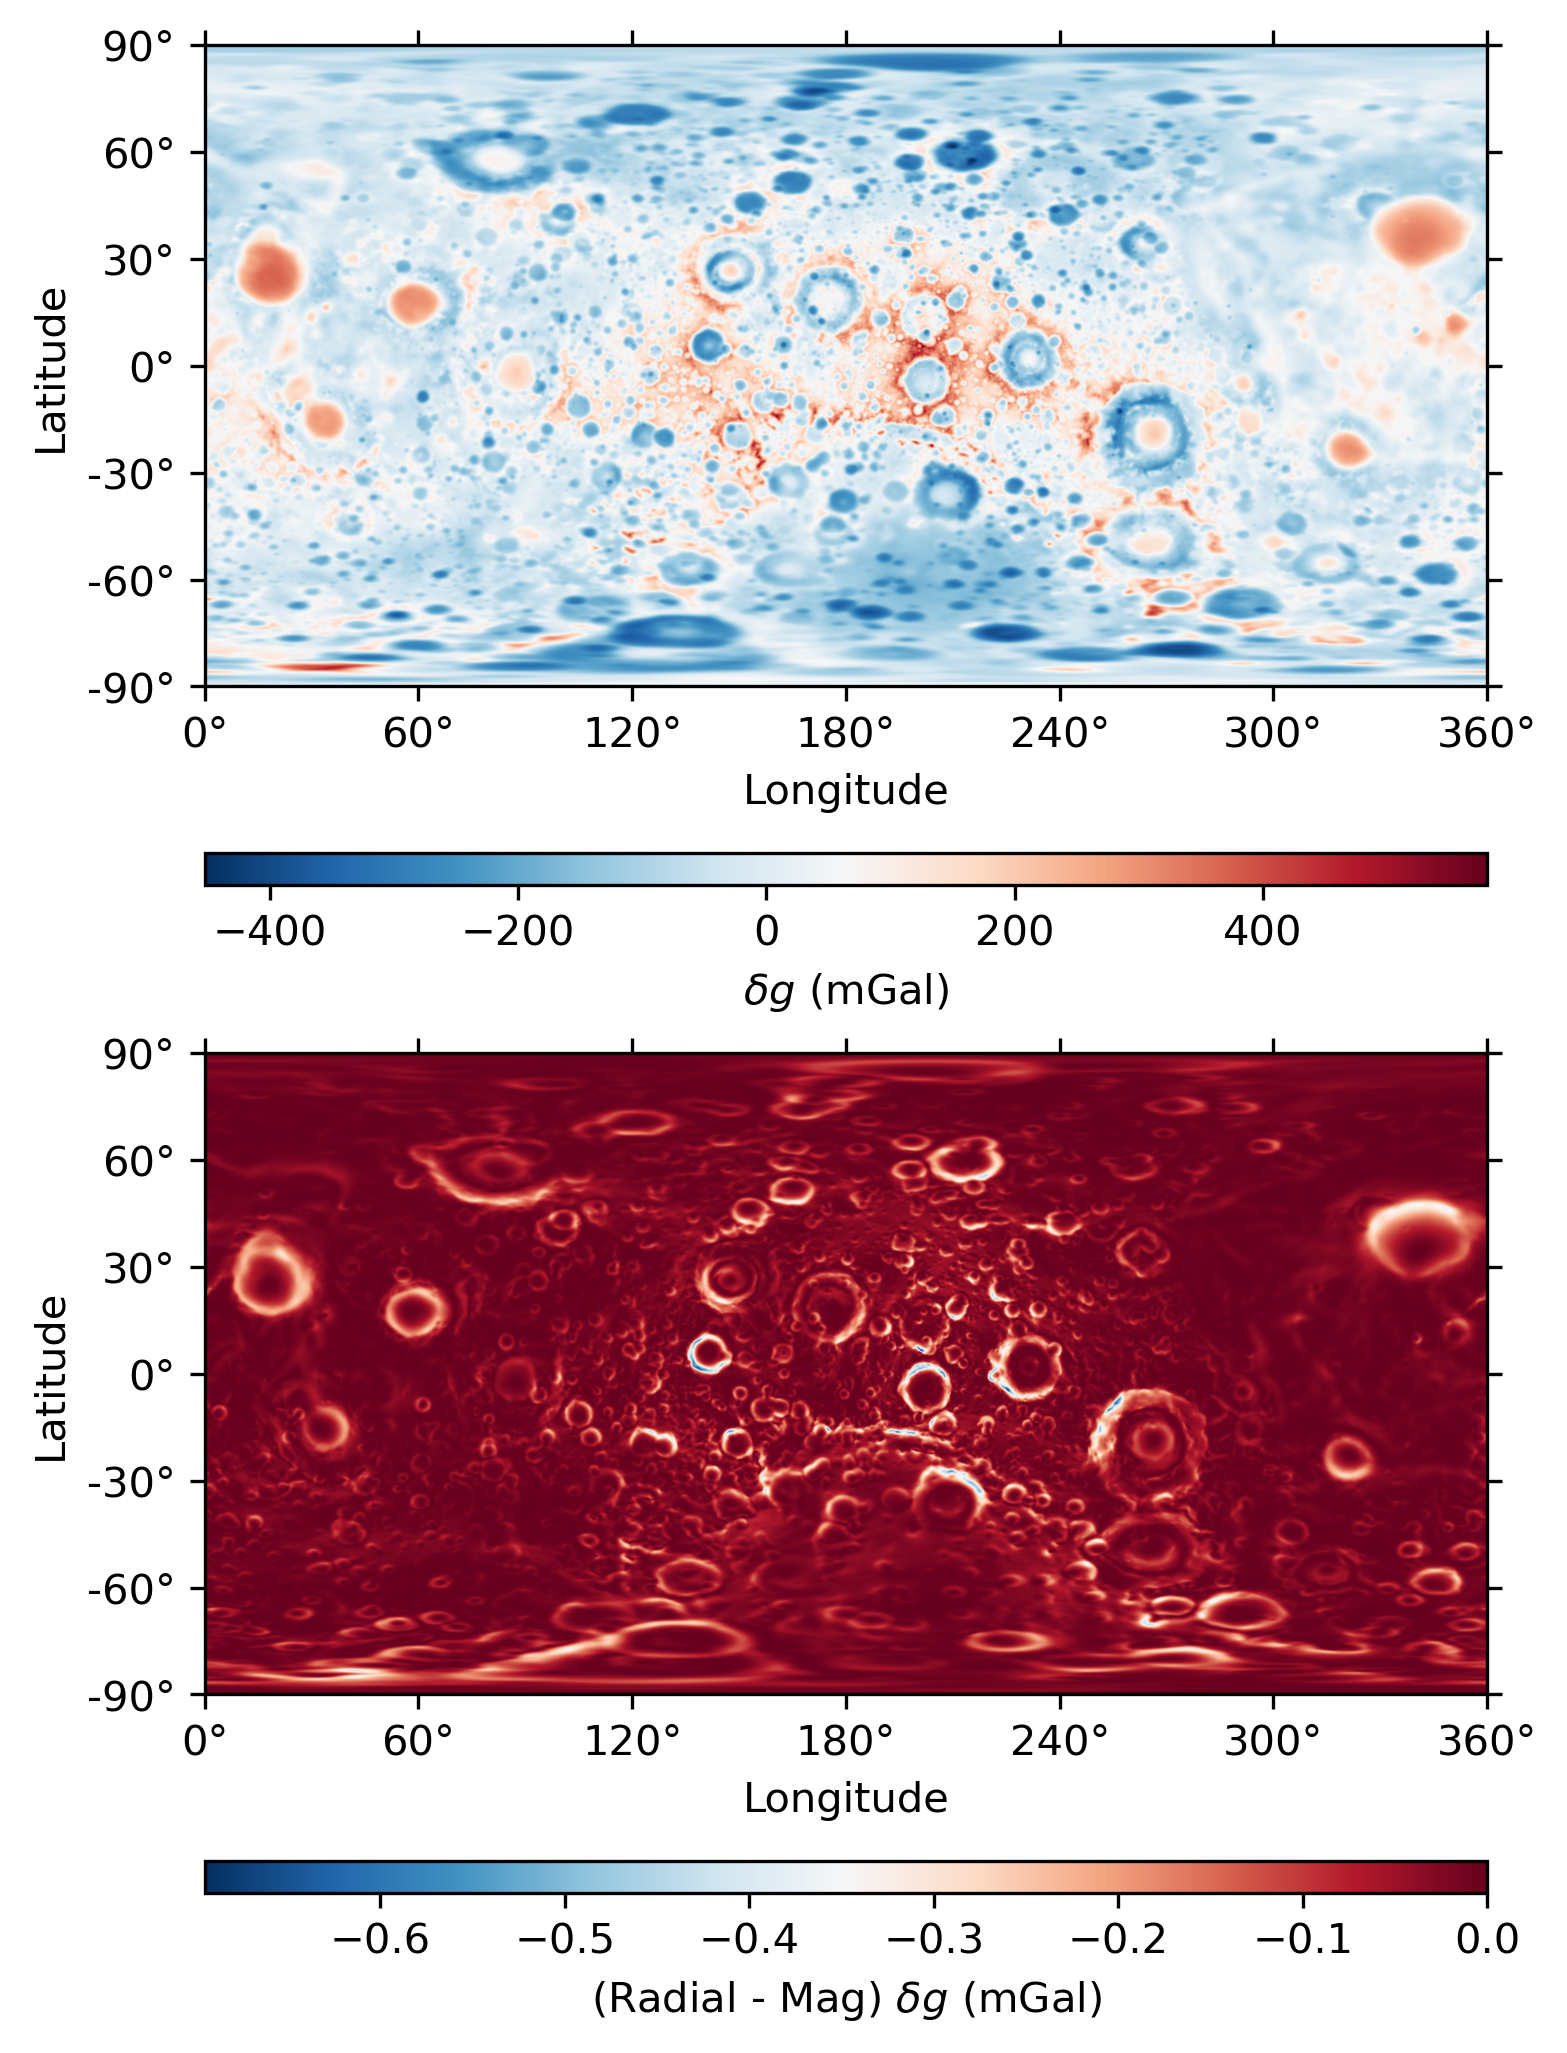
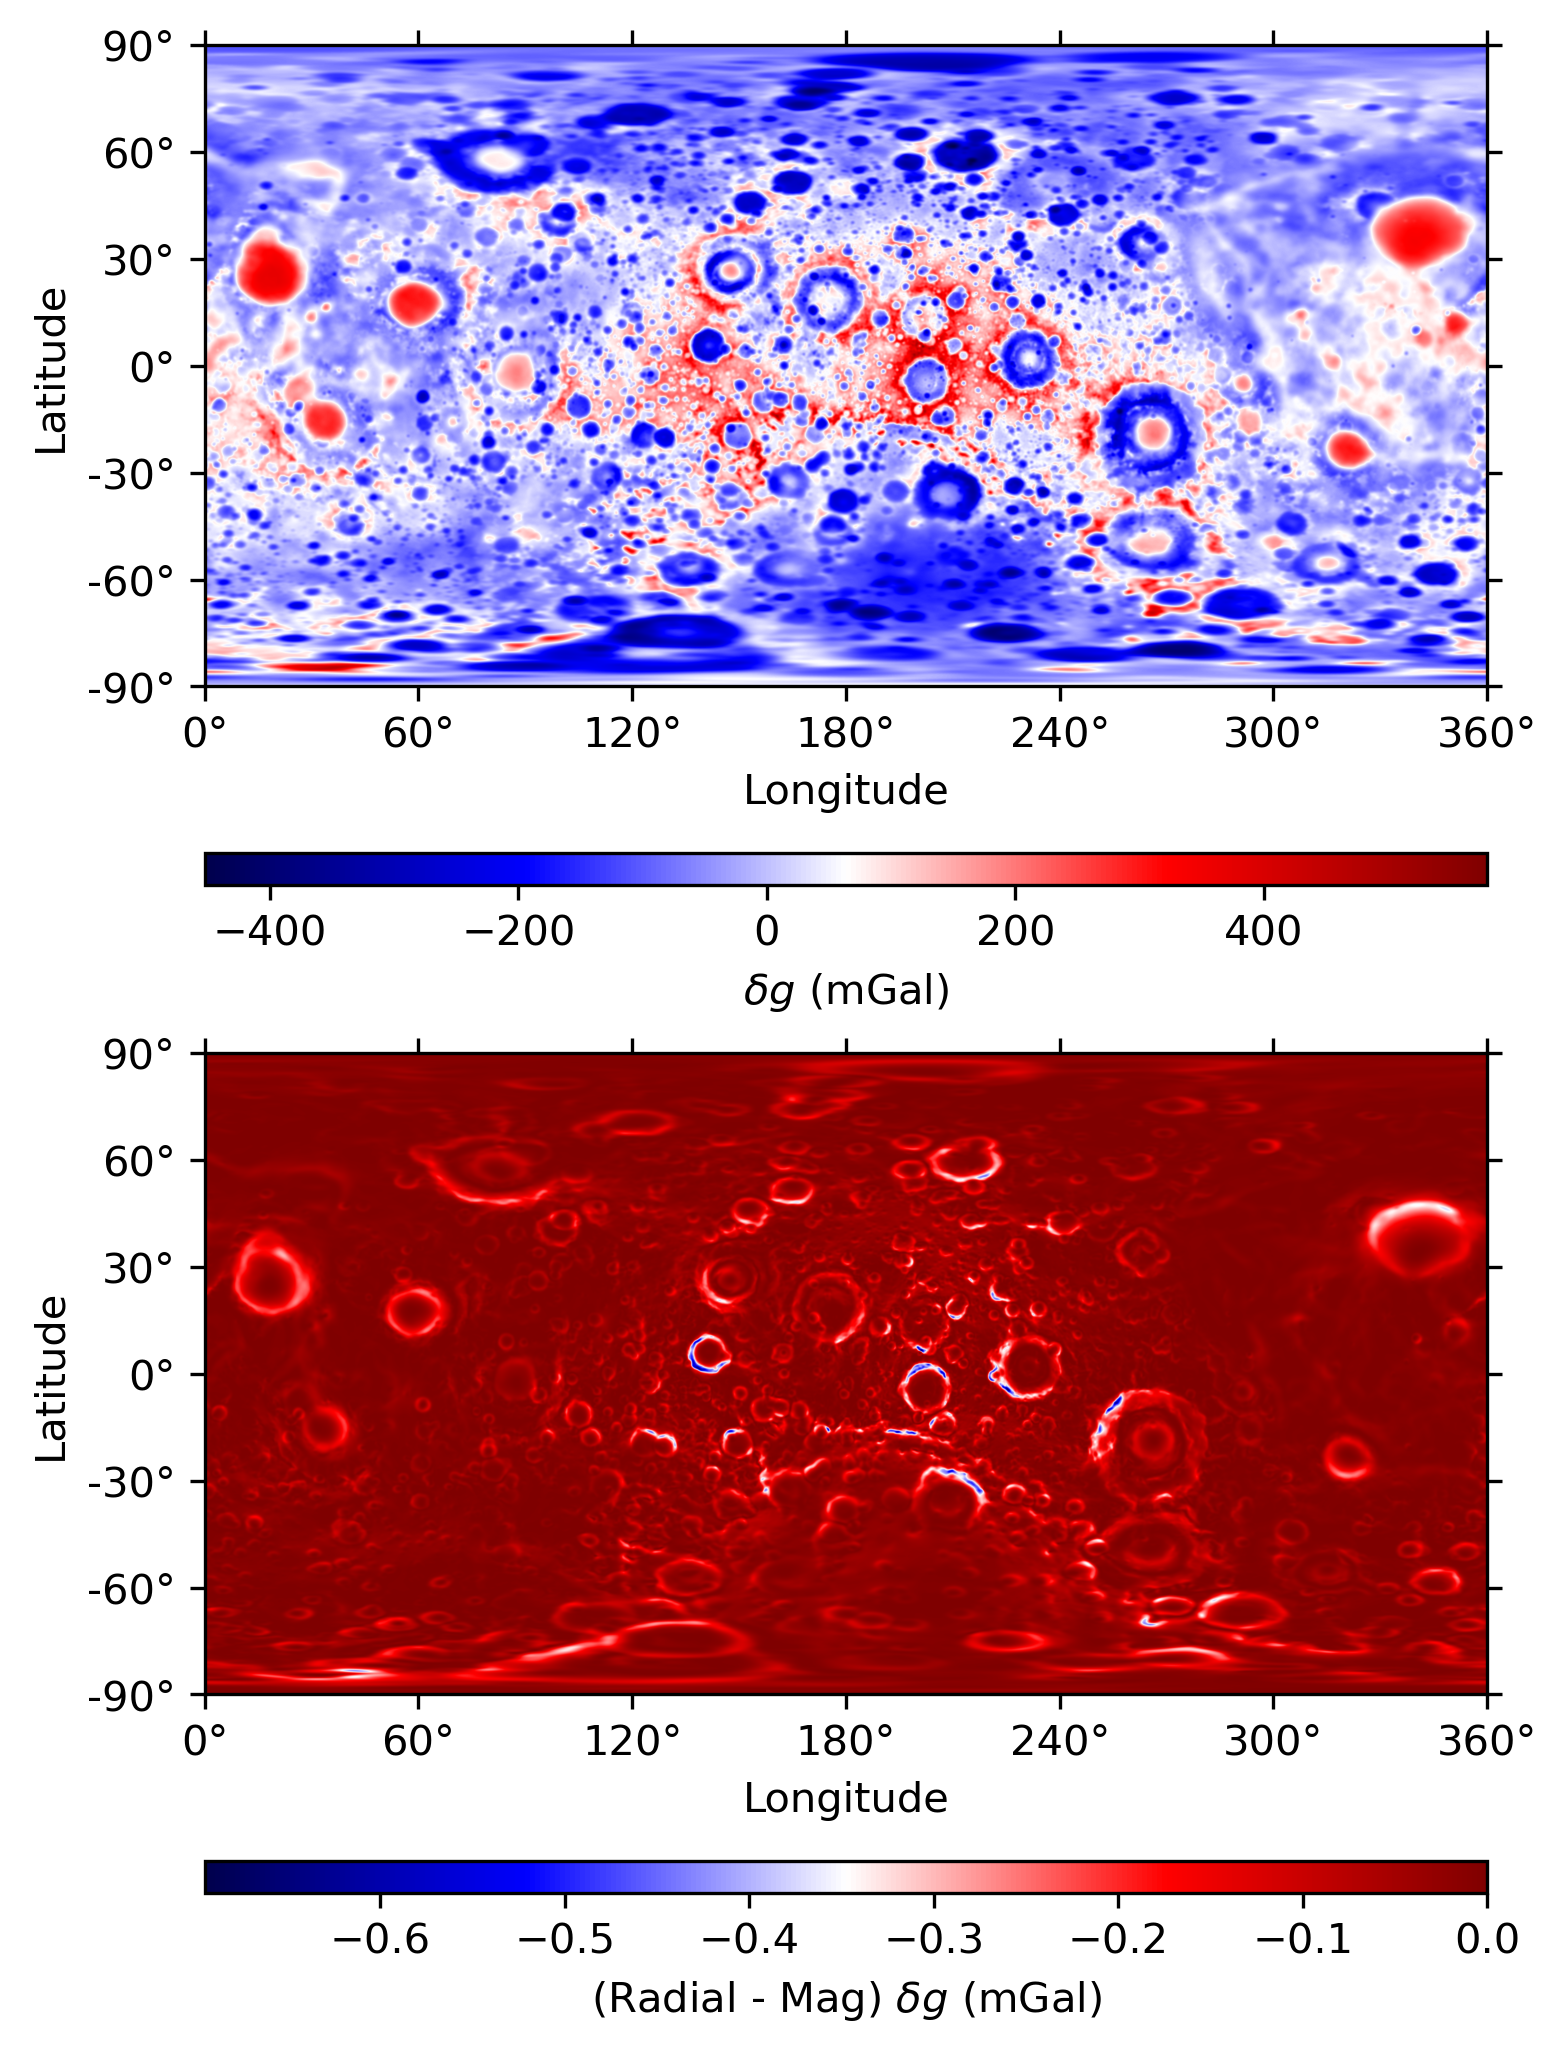
LW_20260324

diff --git a/ex_Moon_TopoGrav_Data.py b/ex_Moon_TopoGrav_Data.py
@@ -7,6 +7,7 @@ import pyshtools as pysh
 import pyshtools.constants.Moon as cstMoon
 import pygmt
 import pyvista as pv
+import time
 # %% 
 # # ! Gravity of Moon
 ######## * SHGravCoeffs
@@ -23,7 +24,7 @@ print(clm_grav_moon)
 ######## * SHGravGrid
 r_calc = 1748000.0
 #### * Expand
-res_grav = 0.05 # degree
+res_grav = 1.0/16 # degree
 grd_grav_moon = clm_grav_moon.expand(a=r_calc,
                                      f=0.0,
                                      lmax=int(90/res_grav)-1, 
@@ -47,18 +48,34 @@ dif_dg2 = dg_norm - dg
 xr_grd_grav_moon = grd_grav_moon.to_xarray()
 print('*'*32+'\n' + 'Class xarray.Dataset')
 print(xr_grd_grav_moon)
-#### * Mapping
+#### * Mapping with Matplotlib
 fig, axs = plt.subplot_mosaic([['(a)'],['(b)']], 
                                figsize=(6, 8), 
                                height_ratios=[0.45, 0.45])
 dg.plot(ax=axs['(a)'], colorbar='bottom', 
         cb_label=r'$\delta g$ (mGal)',
-        cmap='RdBu_r', tick_interval=[60, 30])
+        cmap='seismic', tick_interval=[60, 30])
 dif_dg1.plot(ax=axs['(b)'], colorbar='bottom', 
              cb_label=r'(Radial - Mag) $\delta g$ (mGal)',
-             cmap='RdBu_r', tick_interval=[60, 30])
+             cmap='seismic', tick_interval=[60, 30])
 plt.savefig('moon_dg_rad_mag', dpi=300, bbox_inches='tight')
 plt.show()
+#### * Mapping with PyGMT
+fig = pygmt.Figure()
+dg.plotgmt(fig=fig,
+           projection='mollweide',
+           central_longitude=-90.,
+           grid=[30, 30],
+           tick_interval=None,
+           cmap='vik',
+           cmap_limits=[-500, 500],
+           colorbar='bottom',
+           cb_triangles='both',
+           cb_label='Free-air gravity anomaly (mGal)',
+           cb_tick_interval=100,
+           cb_minor_tick_interval=50)
+fig.show(width=800)
+fig.savefig('moon_dg.png', dpi=300)
 ######## * Stats
 Gs = {'Gravity disturbance: magnitude': dg.to_array(), 
       'Gravity disturbance: radial': dg_rad.to_array(),
@@ -73,55 +90,93 @@ df.index.name = 'Gravity disturbance (mGal)'
 df.style.format("{:.6f}").set_properties(**{'text-align': 'center'})
 # %% 
 # # ! Shape/Topo of Moon
-r_ref = 1738000.0
 ######## * Shape
-clm_shp_moon = pysh.SHCoeffs.from_file('Moon_shape_2879.sh', 
-                                       lmax=2879, 
-                                       name='LOLA_shape (Moon)',
-                                       units='m', format='bshc')
-res_topo = res_grav
-lmax_pk = int(90/res_topo)-1
-grd_shp_moon = clm_shp_moon.expand(lmax=int(90/res_topo)-1,
-                                   lmax_calc=lmax_pk)
-grd_topo_moon = (grd_shp_moon - r_ref) / 1.e3
-######## * Mapping
-fig = pygmt.Figure()
-grd_topo_moon.plotgmt(fig=fig,
-                      projection='mollweide',
-                      central_longitude=-90.,
-                      grid=[30, 30],
-                      tick_interval=None,
-                      cmap='rainbow',
-                      cmap_limits=[-8, 8],
-                      colorbar='bottom',
-                      cb_triangles='both',
-                      cb_label='Topography (km)',
-                      cb_tick_interval=1,
-                      cb_minor_tick_interval=0.5,
-                      shading=grd_topo_moon)
-fig.show(width=800)
-######## * Stats
-Gs = {'Topography (km)': grd_topo_moon.to_array()}
-stats = {
-    name: {'Min': arr.min(), 'Max': arr.max(),
-           'Mean': arr.mean(), 'Std': arr.std()}
-    for name, arr in Gs.items()}
-df = pd.DataFrame(stats).T
-df.style.format("{:.4f}").set_properties(**{'text-align': 'center'})
+r_ref = 1738000.0
+res_topo = np.array([1.0/8, 1.0/16, 1.0/32, 1.0/64]) # degree
+LMAX_shp = np.asanyarray(90/res_topo-1, dtype=int)
+print("Topographic Statistics of the Moon at Increasing Spherical Harmonic Resolutions")
+print("(Values in km relative to reference radius = 1738 km)")
+print('    lmax | time_sec |      min |      max |     mean |      std')
+print('-'*64)
+topo_old = pysh.SHGrid.from_zeros(lmax=5759)
+for i, lmax_shp in enumerate(LMAX_shp):
+    t0 = time.time()
+    clm_shp_moon = pysh.SHCoeffs.from_file(f'Moon_shape_{lmax_shp}.sh', 
+                                           lmax=lmax_shp, 
+                                           name='LOLA_shape (Moon)',
+                                           units='m', format='bshc')
+    grd_shp_moon = clm_shp_moon.expand(lmax=5759, 
+                                       lmax_calc=lmax_shp)
+    tc = time.time() - t0
+    topo_new = (grd_shp_moon - r_ref) / 1.e3
+    min_val  = np.min(topo_new.data)
+    max_val  = np.max(topo_new.data)
+    mean_val = np.mean(topo_new.data)
+    std_val  = np.std(topo_new.data)
+    print(f"{lmax_shp:8d} | {tc:8.3f} | {min_val:8.4f} | {max_val:8.4f} | {mean_val:8.4f} | {std_val:8.4f}")
+    if i>=1:
+        dif_topo = topo_new - topo_old
+        min_val  = np.min(dif_topo.data)
+        max_val  = np.max(dif_topo.data)
+        mean_val = np.mean(dif_topo.data)
+        std_val  = np.std(dif_topo.data)      
+        print(f"nmax: ({LMAX_shp[i]:4d} - {LMAX_shp[i-1]:4d}) | {min_val:8.4f} | {max_val:8.4f} | {mean_val:8.4f} | {std_val:8.4f}")
+    topo_old = topo_new.copy()         
 # %% 
-# # ! Total gravity anomaly
-fig = pygmt.Figure()
-dg.plotgmt(fig=fig,
-           projection='mollweide',
-           central_longitude=-90.,
-           grid=[30, 30],
-           tick_interval=None,
-           cmap='vik',
-           cmap_limits=[-500, 500],
-           colorbar='bottom',
-           cb_triangles='both',
-           cb_label='Total gravity anomaly (mGal)',
-           cb_tick_interval=100,
-           cb_minor_tick_interval=50,
-           shading=grd_topo_moon)
-fig.show(width=800)
+# # ! PyVista 3D Visualization
+grd_shp_moon = clm_shp_moon.expand(lmax=719, 
+                                   lmax_calc=719)
+mesh_shp_moon = pv.Sphere(radius=1.0, center=(0.0, 0.0, 0.0),
+                          theta_resolution=grd_shp_moon.nlon-1,
+                          phi_resolution=grd_shp_moon.nlat)
+[LON, LAT] = np.meshgrid(grd_shp_moon.lons(), grd_shp_moon.lats())
+RTOPO = grd_shp_moon.data
+X = RTOPO * np.cos(np.deg2rad(LAT)) * np.cos(np.deg2rad(LON))
+Y = RTOPO * np.cos(np.deg2rad(LAT)) * np.sin(np.deg2rad(LON))
+Z = RTOPO * np.sin(np.deg2rad(LAT))
+pts_x = X[1:-1,:-1].flatten(order='F')
+pts_y = Y[1:-1,:-1].flatten(order='F')
+pts_z = Z[1:-1,:-1].flatten(order='F')
+pts_topo = np.column_stack((pts_x, pts_y, pts_z))
+north_pole = np.array([X[0,0], Y[0,0], Z[0,0]]);
+south_pole = np.array([X[-1,0], Y[-1,0], Z[-1,0]]);
+Verts = np.insert(pts_topo, 0, np.vstack([north_pole, south_pole]), axis=0)
+mesh_shp_moon.points = Verts
+Faces = mesh_shp_moon.regular_faces
+pts_r = np.sqrt(np.sum(Verts**2, axis=1))
+
+mesh_shp_moon['Topography'] = (pts_r - r_ref) / 1.e3
+sargs = dict(
+    title='Topography (km)',
+    title_font_size=20,
+    label_font_size=16,
+    n_labels=9,
+    italic=True,
+    fmt='%.1f',
+    font_family='arial',
+    width=0.8,
+    height=0.1,
+    position_x=0.1,
+    position_y=0.1,
+    vertical=False)
+pl = pv.Plotter()
+mesh_front = mesh_shp_moon.translate([0, 2.e6, 0])
+mesh_back = mesh_shp_moon.rotate_z(180)
+mesh_back.translate([0, -2.e6, 0], inplace=True)
+pl.add_mesh(
+    mesh_front,
+    cmap='seismic',
+    clim=[-8, 8],
+    scalars='Topography',
+    show_scalar_bar=False)
+pl.add_mesh(
+    mesh_back,
+    cmap='seismic',
+    clim=[-8, 8],
+    scalars='Topography',
+    show_scalar_bar=False)
+pl.add_scalar_bar(**sargs)
+pl.view_yz()
+pl.camera.Zoom(1.5)
+pl.show()
+pl.screenshot("Moon_Topo_3D.png");

diff --git a/ex_Moon_TopoGrav_Comp_SH.py b/ex_Moon_TopoGrav_Comp_SH.py
@@ -1,0 +1,155 @@
+# %% 
+# # ! Setup
+import numpy as np
+import matplotlib.pyplot as plt
+import pandas as pd
+import pyshtools as pysh
+import pygmt
+import pyvista as pv
+import time
+# %% 
+# # ! Constants
+G = pysh.constants.G.value
+gm_moon = pysh.constants.Moon.gm.value
+r_calc = 1748000.0
+r_ref = 1738000.0
+# %% 
+# # ! Shape/Topo of Moon
+#### * Shape
+clm_shp_moon = pysh.SHCoeffs.from_file('Moon_shape_2879.sh', 
+                                       lmax=2879, 
+                                       name='LOLA_shape (Moon)',
+                                       units='m', format='bshc')
+res_topo = 0.25
+lmax_pk = int(90/res_topo)-1
+grd_shp_moon = clm_shp_moon.expand(lmax=int(90/res_topo)-1,
+                                   lmax_calc=lmax_pk)
+grd_topo_moon = (grd_shp_moon - r_ref) / 1.e3
+# %% 
+# # ! Computation of topographic potential: Spectral-domain 
+nthreads = 1
+NMAX = 21
+print('nmax | time_sec |         min |         max |        mean |         std')
+print('-'*70)
+for nmax in range(1, NMAX):
+    t0 = time.time()
+    clm_topograv_moon = \
+        pysh.SHGravCoeffs.from_shape(shape=clm_shp_moon,
+                                     rho=2560.0,
+                                     gm=gm_moon,
+                                     nmax=nmax,
+                                     lmax=lmax_pk,
+                                     lmax_grid=lmax_pk,
+                                     lmax_calc=lmax_pk,
+                                     name=f'LOLA_Topo_Grav (Moon) nmax={nmax}',
+                                     backend='ducc',
+                                     nthreads=nthreads)
+    tc = time.time() - t0
+    res_topograv = res_topo
+    grd_grav_moon = clm_topograv_moon.expand(a=r_calc,
+                                             f=0.0,
+                                             lmax=int(90/res_topograv)-1, 
+                                             lmax_calc=lmax_pk)
+    gz_topo = -1.e5 * grd_grav_moon.rad
+    min_val = np.min(gz_topo.data)
+    max_val = np.max(gz_topo.data)
+    mean_val = np.mean(gz_topo.data)
+    std_val = np.std(gz_topo.data)
+    print(f"{nmax:4d} | {tc:8.3f} | {min_val:12.4f} | {max_val:12.4f} | {mean_val:12.4f} | {std_val:12.4f}")
+#### * Mapping
+fig = pygmt.Figure()
+gz_topo.plotgmt(fig=fig,
+                projection='mollweide',
+                central_longitude=-90.,
+                grid=[30, 30],
+                tick_interval=None,
+                cmap='vik',
+                cmap_limits=[-800, 800],
+                colorbar='bottom',
+                cb_triangles='both',
+                cb_label='Topographic radial gravity (mGal)',
+                cb_tick_interval=200,
+                cb_minor_tick_interval=100,
+                shading=grd_topo_moon)
+fig.show(width=800)
+######## * Stats
+Gs = {'Topographic gravity: radial (mGal)': gz_topo.to_array()}
+stats = {
+    name: {'Min': arr.min(), 'Max': arr.max(),
+           'Mean': arr.mean(), 'Std': arr.std()}
+    for name, arr in Gs.items()}
+df = pd.DataFrame(stats).T
+df.style.format("{:.4f}").set_properties(**{'text-align': 'center'})
+# %% 
+# # ! Computation of topographic potential: Spatial-domain 
+mesh_shp_moon = pv.Sphere(radius=1.0, center=(0.0, 0.0, 0.0),
+                          theta_resolution=grd_shp_moon.nlon-1,
+                          phi_resolution=grd_shp_moon.nlat)
+[LON, LAT] = np.meshgrid(grd_shp_moon.lons(), grd_shp_moon.lats())
+RTOPO = grd_shp_moon.data
+X = RTOPO * np.cos(np.deg2rad(LAT)) * np.cos(np.deg2rad(LON))
+Y = RTOPO * np.cos(np.deg2rad(LAT)) * np.sin(np.deg2rad(LON))
+Z = RTOPO * np.sin(np.deg2rad(LAT))
+pts_x = X[1:-1,:-1].flatten(order='F')
+pts_y = Y[1:-1,:-1].flatten(order='F')
+pts_z = Z[1:-1,:-1].flatten(order='F')
+pts_topo = np.column_stack((pts_x, pts_y, pts_z))
+north_pole = np.array([X[0,0], Y[0,0], Z[0,0]]);
+south_pole = np.array([X[-1,0], Y[-1,0], Z[-1,0]]);
+Verts = np.insert(pts_topo, 0, np.vstack([north_pole, south_pole]), axis=0)
+mesh_shp_moon.points = Verts
+Faces = mesh_shp_moon.regular_faces
+pts_r = np.sqrt(np.sum(Verts**2, axis=1))
+
+mesh_shp_moon['Topography'] = (pts_r - r_ref) / 1.e3
+sargs = dict(
+    title='Topography (km)',
+    title_font_size=20,
+    label_font_size=16,
+    n_labels=9,
+    italic=True,
+    fmt='%.1f',
+    font_family='arial',
+    width=0.8,
+    height=0.1,
+    position_x=0.1,
+    position_y=0.1,
+    vertical=False)
+pl = pv.Plotter()
+mesh_front = mesh_shp_moon.translate([0, 2.e6, 0])
+mesh_back = mesh_shp_moon.rotate_z(180)
+mesh_back.translate([0, -2.e6, 0], inplace=True)
+pl.add_mesh(
+    mesh_front,
+    cmap='seismic',
+    clim=[-8, 8],
+    scalars='Topography',
+    show_scalar_bar=False)
+pl.add_mesh(
+    mesh_back,
+    cmap='seismic',
+    clim=[-8, 8],
+    scalars='Topography',
+    show_scalar_bar=False)
+pl.add_scalar_bar(**sargs)
+pl.view_yz()
+pl.camera.Zoom(1.5)
+pl.show()
+pl.screenshot("Moon_Topo_3D.png");
+
+
+# t0 = time.time()
+# V_g, gx_g, gy_g, gz_g, Txx_g, Txy_g, Txz_g, Tyy_g, Tyz_g, Tzz_g = \
+#     WerSch_numba(P, Verts, Faces, rho)
+# t_geo = time.time() - t0
+# time_geo.append(t_geo        
+# # Transform numerical results to NED
+# gN_geo, gE_geo, gD_geo, TNN_geo, TNE_geo, TND_geo, TEE_geo, TED_geo, TDD_geo = \
+#     rotate_vec_ten_ecef2ned(
+#         lon_rad, lat_rad,
+#         gx_g, gy_g, gz_g,
+#         Txx_g, Txy_g, Txz_g,
+#         Tyy_g, Tyz_g, Tzz_g
+            
+# cal_geo = [V_g, gN_geo, gE_geo, gD_geo,
+#             TNN_geo, TNE_geo, TND_geo, TEE_geo, TED_geo, TDD_geo]
